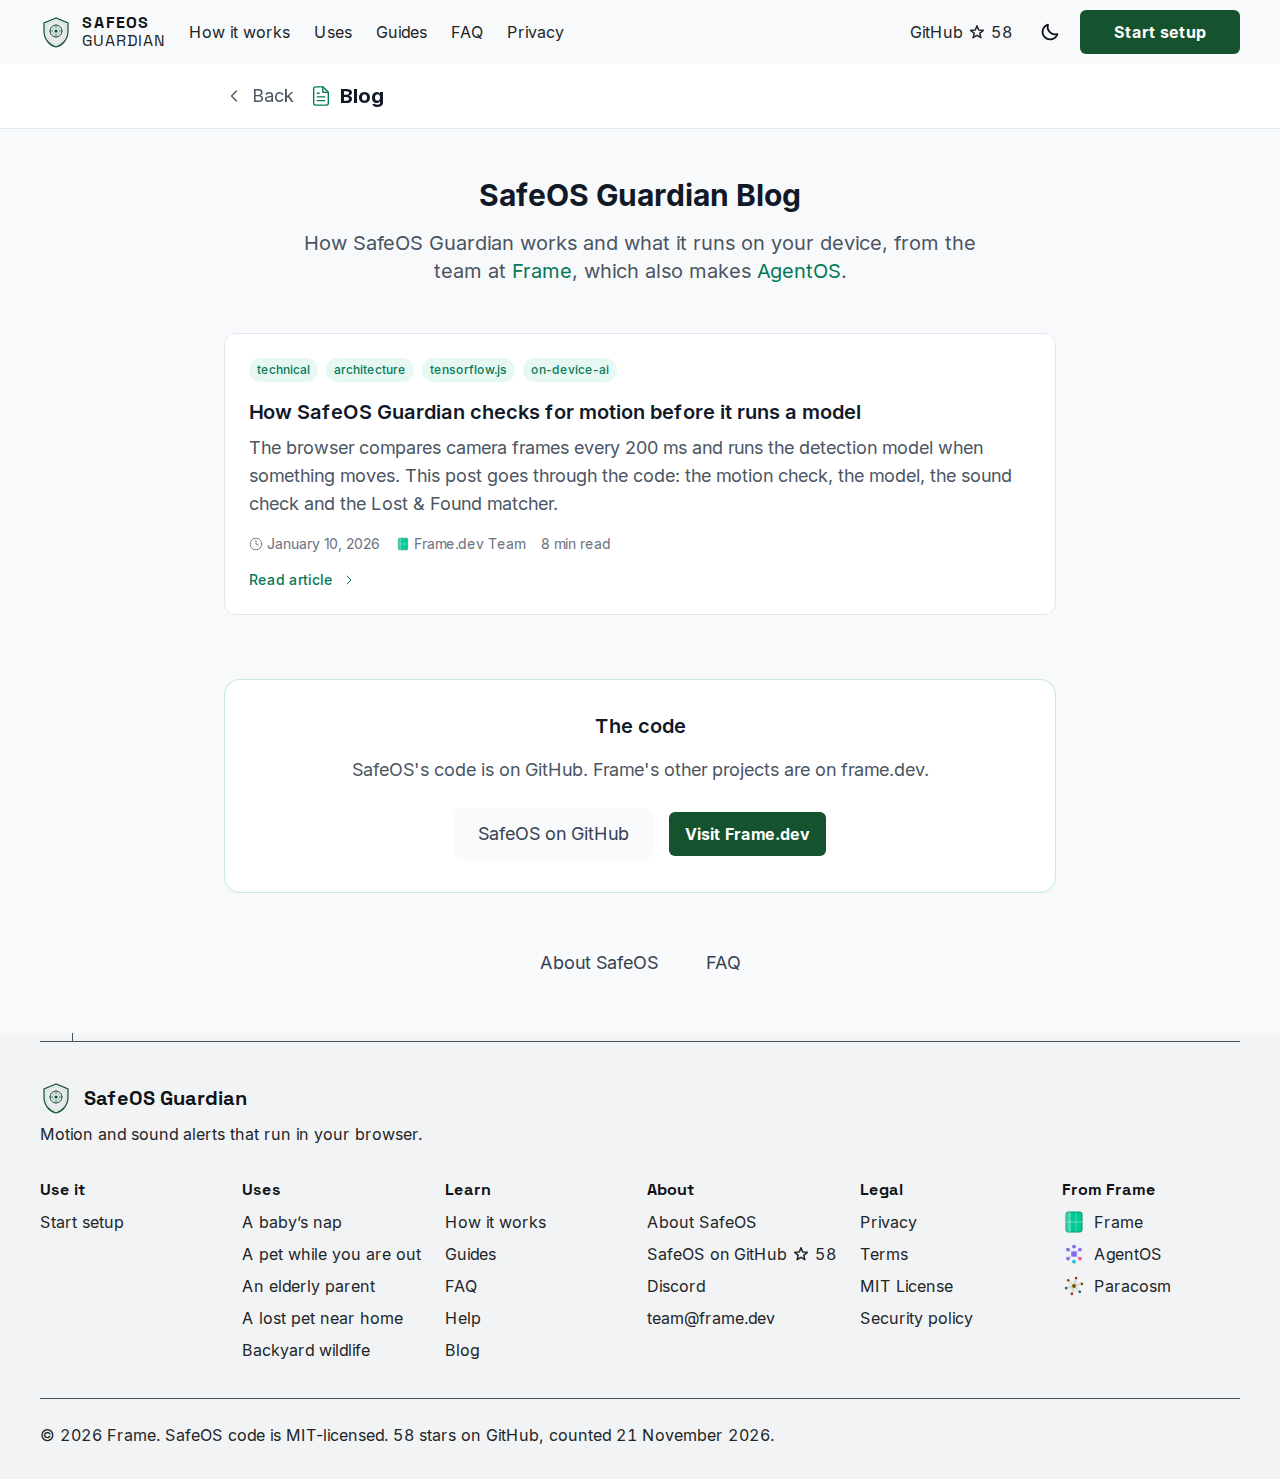
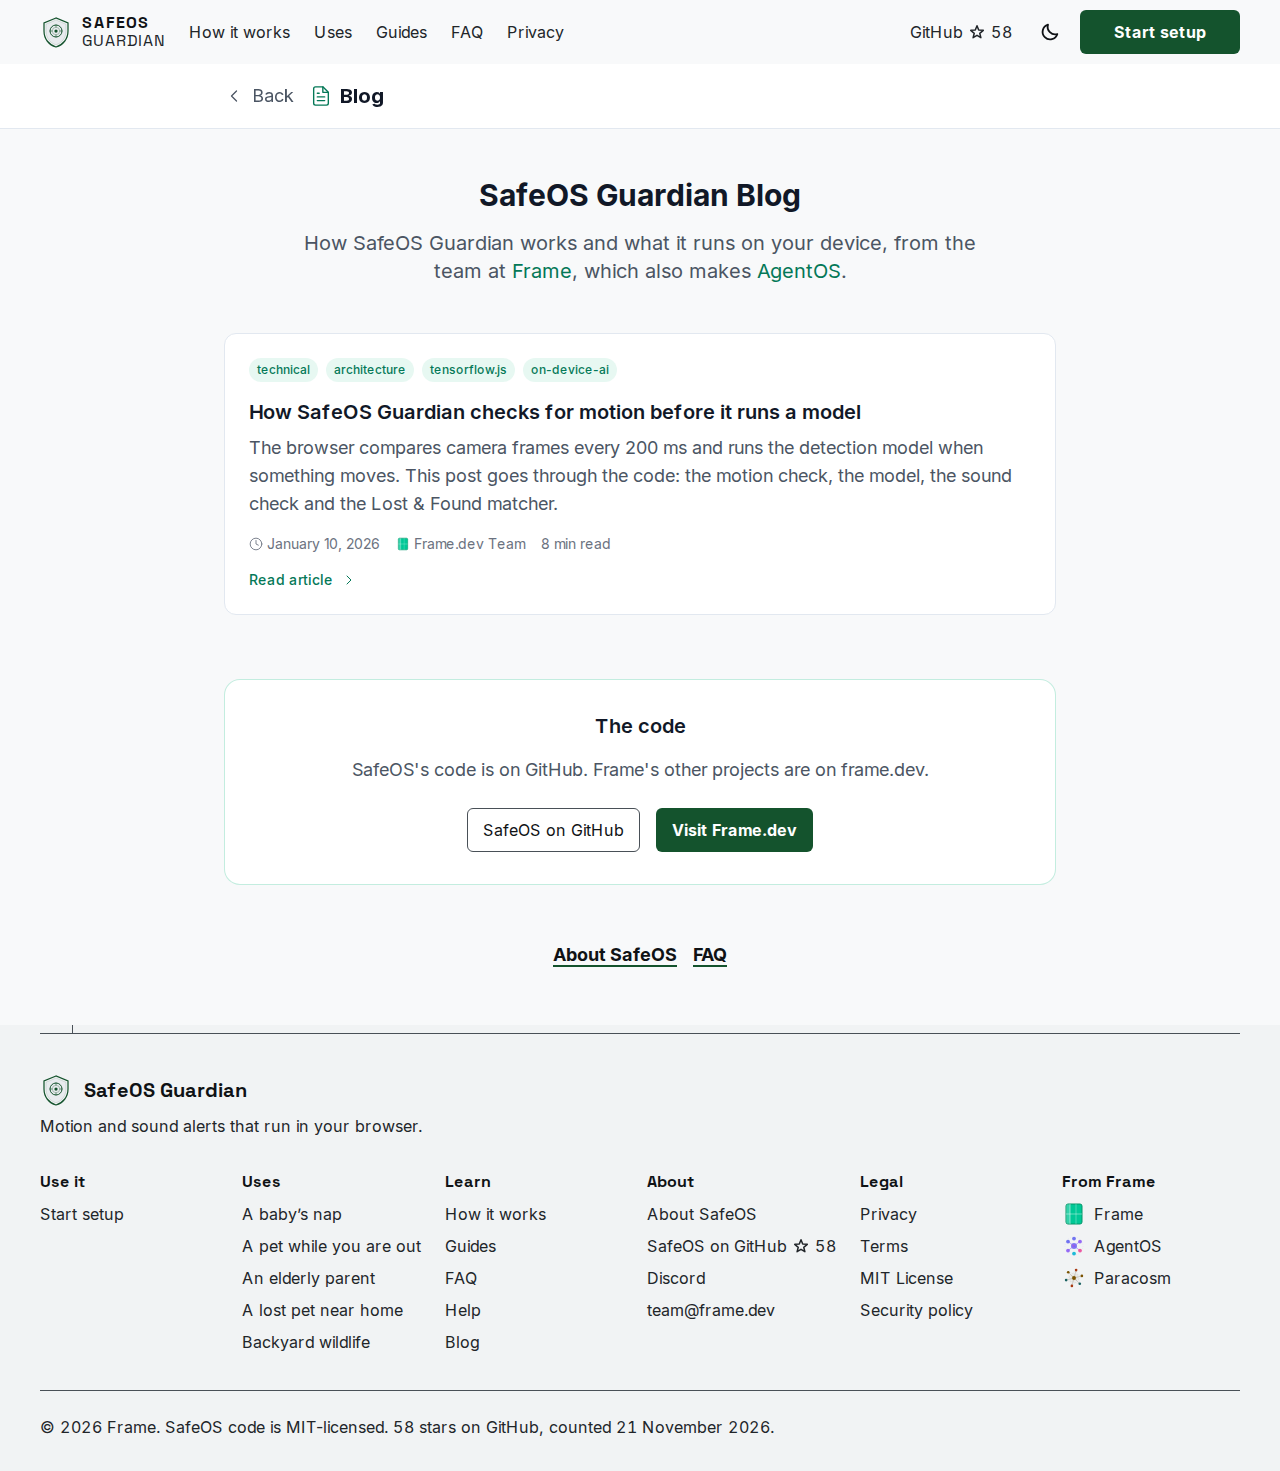
Pictures for pull request 52: the FAQ, the blog and a post with the keys at their foot, from Pictures run 44866334979

diff --git a/docs/pictures/pr-52/README.md b/docs/pictures/pr-52/README.md
@@ -9,6 +9,13 @@ on commit c0ddd4c, where every walk passed.
 the repository's star count before the build and handed it over: 58, counted
 21 November 2026.
 
+Three files of `after/` are from a later run,
+[run 44866334979](https://github.com/framerslab/safeos/actions/runs/44866334979)
+on commit ac0df7f, which changed the keys at the foot of the FAQ, the blog and
+a post: `faq-1280-light.png`, `blog-1280-light.png` and
+`blog-how-safeos-guardian-works-1280-light.png`. That run read the same count
+on the same day, and every walk passed.
+
 `before/`: the `pictures-before` artifact, the base commit 7ffbaed, built and
 captured by the same script. The base has no star count.
 
@@ -22,9 +29,9 @@ In both folders:
 | `about-builders-<width>-<look>.png` | About's part on who builds SafeOS. Before, it is the part "Built by Frame.dev"; the page also told it a second time, under "Who Builds It" |
 | `404-html-<width>-<look>.png` | The Not found page with its two keys |
 | `setup-1280-dark.png` | Setup's welcome card, with Frame's name under the heading |
-| `faq-1280-light.png` | The FAQ from top to bottom; its key is at the foot of the page's own content |
-| `blog-1280-light.png` | The blog from top to bottom: the mark in each byline and the key at the foot |
-| `blog-how-safeos-guardian-works-1280-light.png` | A post from top to bottom: the mark in its byline and beside the team's name at its foot |
+| `faq-1280-light.png` | The FAQ from top to bottom; its keys are at the foot of the page's own content: the solid key with the outlined key beside it, then two link rows |
+| `blog-1280-light.png` | The blog from top to bottom: the mark in each byline, and at the foot the outlined key beside the solid key, then two link rows |
+| `blog-how-safeos-guardian-works-1280-light.png` | A post from top to bottom: the mark in its byline and beside the team's name at its foot, then two link rows |
 
 In `after/` alone, from the walk of the pull request's own build
 (`apps/guardian-ui/scripts/home-checks.mjs` and
